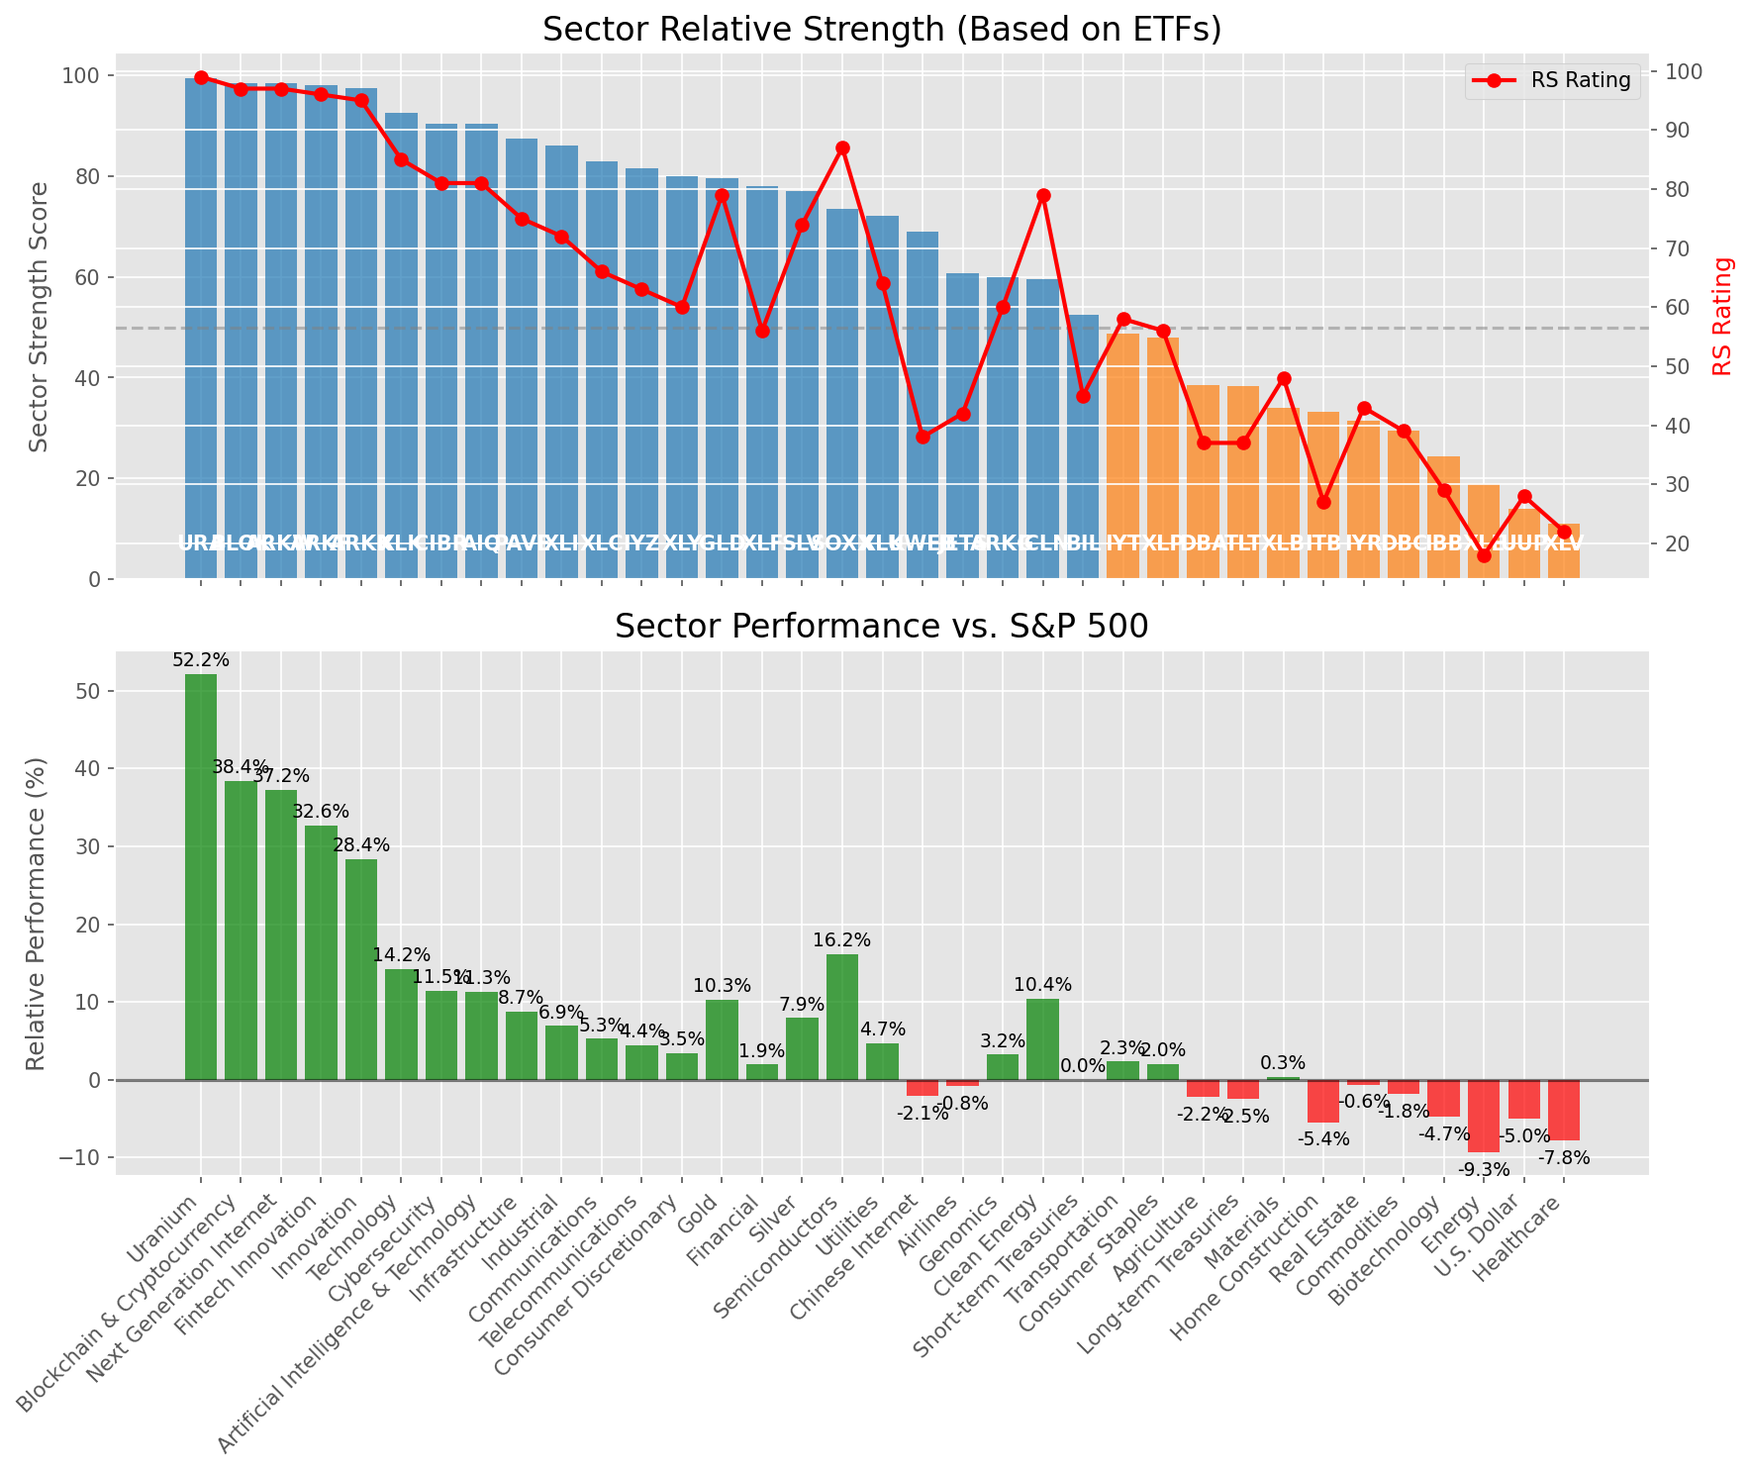
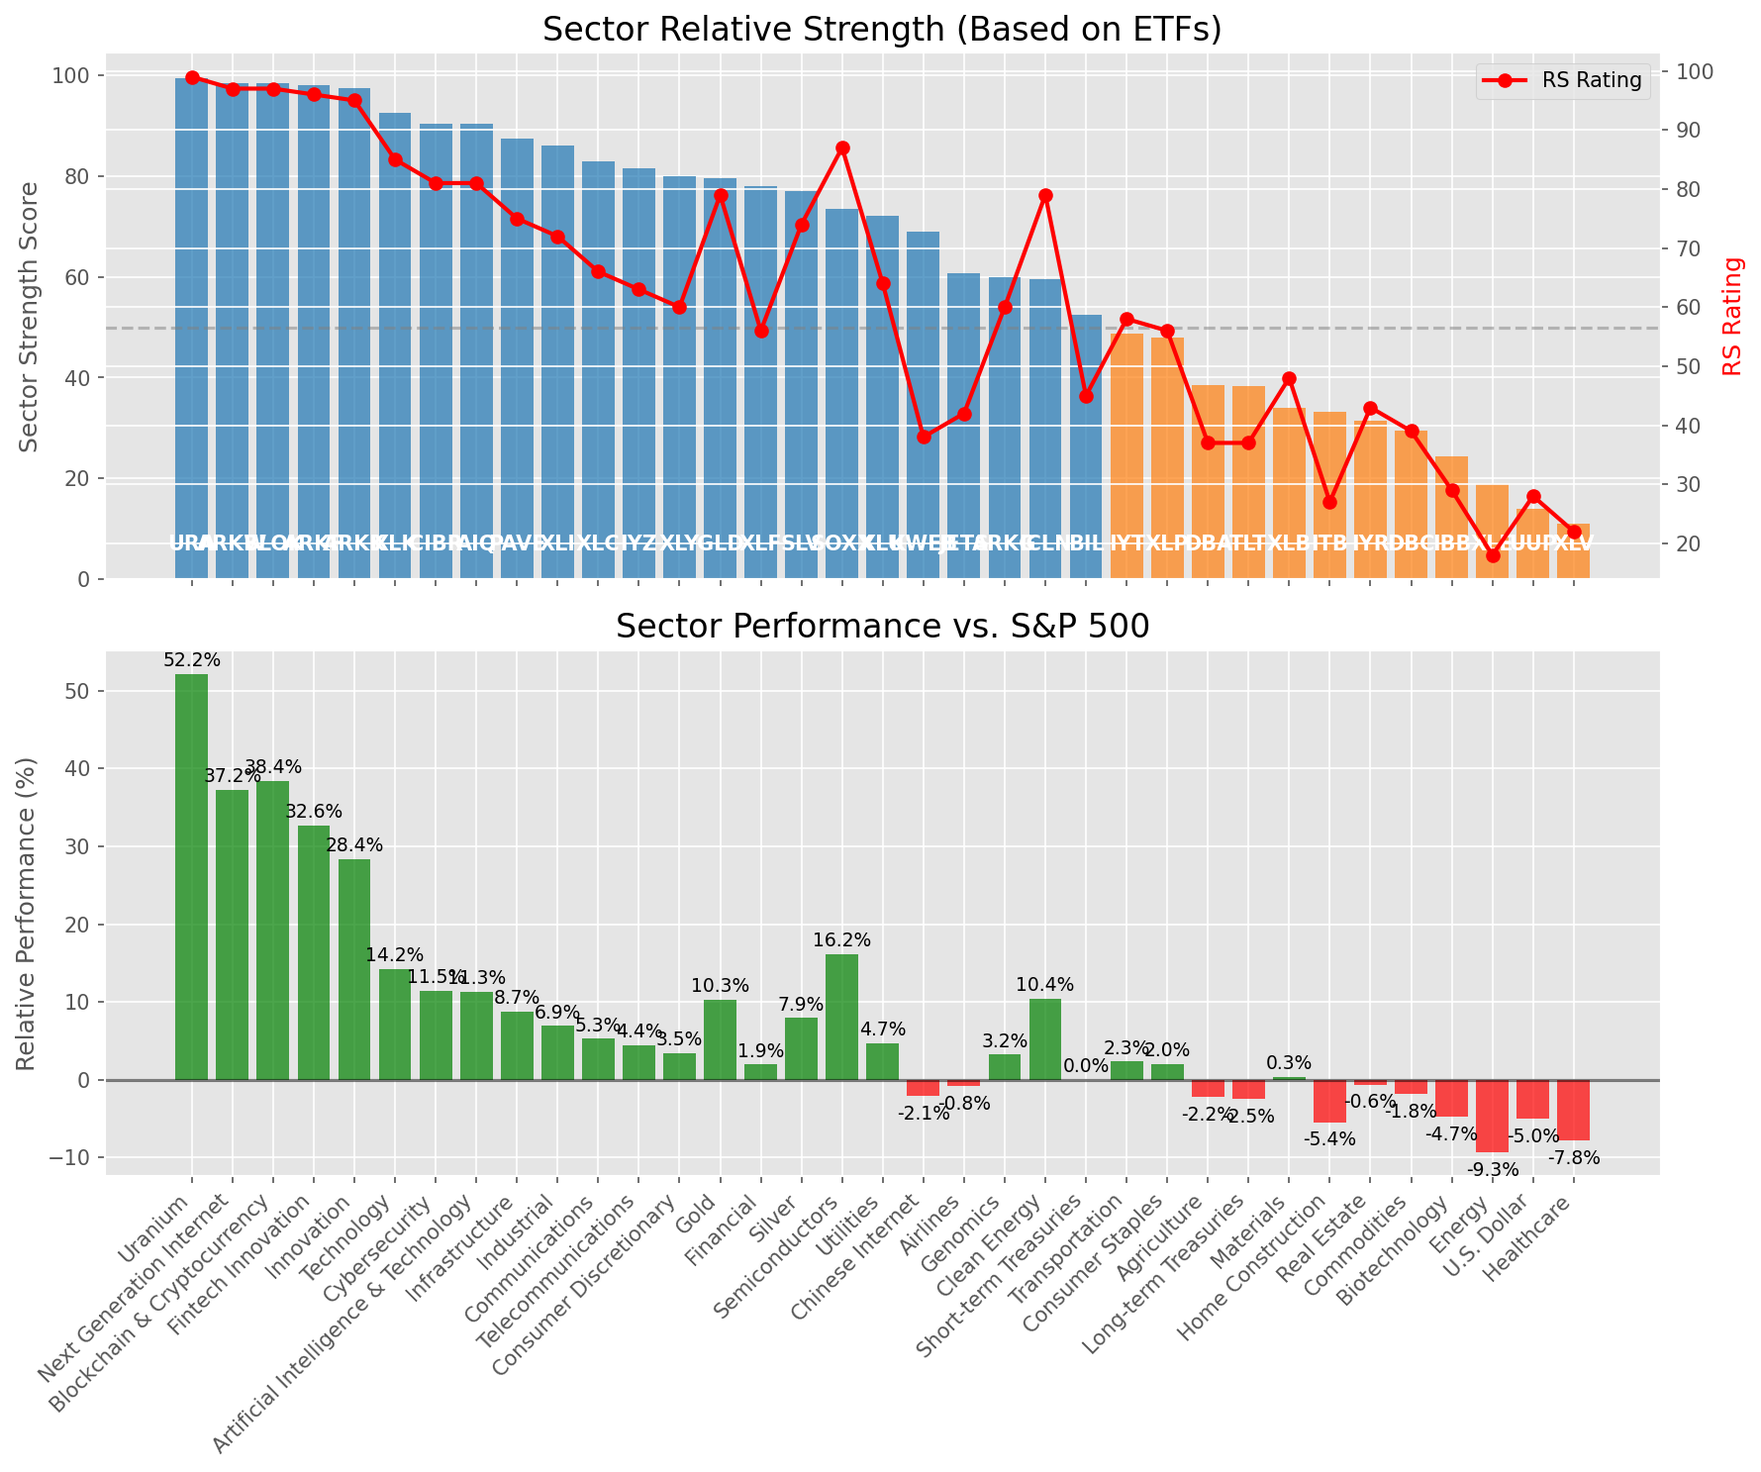
Add market report for 2025-06-25

diff --git a/oneil_relative_strength_report_2025-06-25.md b/oneil_relative_strength_report_2025-06-25.md
@@ -50,8 +50,8 @@ Based on William O'Neil's Relative Strength Methodology
 | ETF | Strength | RS Rating | Performance | Above Key MAs | Trend | Sector |
 |-----|----------|-----------|-------------|--------------|-------|--------|
 | [URA](https://www.tradingview.com/chart/?symbol=URA) | 99.5 | 99.0 | 52.15% | 10d ✓, 50d ✓, 200d ✓ | ↗ | Uranium |
-| [BLOK](https://www.tradingview.com/chart/?symbol=BLOK) | 98.5 | 97.0 | 38.40% | 10d ✓, 50d ✓, 200d ✓ | ↗ | Blockchain & Cryptocurrency |
 | [ARKW](https://www.tradingview.com/chart/?symbol=ARKW) | 98.5 | 97.0 | 37.22% | 10d ✓, 50d ✓, 200d ✓ | ↗ | Next Generation Internet |
+| [BLOK](https://www.tradingview.com/chart/?symbol=BLOK) | 98.5 | 97.0 | 38.40% | 10d ✓, 50d ✓, 200d ✓ | ↗ | Blockchain & Cryptocurrency |
 | [ARKF](https://www.tradingview.com/chart/?symbol=ARKF) | 98.0 | 96.0 | 32.64% | 10d ✓, 50d ✓, 200d ✓ | ↗ | Fintech Innovation |
 | [ARKK](https://www.tradingview.com/chart/?symbol=ARKK) | 97.5 | 95.0 | 28.37% | 10d ✓, 50d ✓, 200d ✓ | ↗ | Innovation |
 | [XLK](https://www.tradingview.com/chart/?symbol=XLK) | 92.5 | 85.0 | 14.20% | 10d ✓, 50d ✓, 200d ✓ | ↗ | Technology |
@@ -98,7 +98,7 @@ This table shows the relative strength metrics for different market sectors base
 
 ### **Current Sector Leadership**
 
-The current market leadership is coming from the following sectors: **Uranium, Blockchain & Cryptocurrency, Next Generation Internet**.
+The current market leadership is coming from the following sectors: **Uranium, Next Generation Internet, Blockchain & Cryptocurrency**.
 
 The **Uranium** sector (represented by **URA**) is showing particularly strong relative strength with an RS rating of 99.0 and performance of 52.15% vs. the S&P 500. This sector is trading above its 10-day, 50-day, 200-day moving average(s). Investors should consider focusing on high RS stocks within these leading sectors for potential outperformance.
 
@@ -110,69 +110,69 @@ The following 91 stocks show exceptional relative strength:
 
 | RS Rating | Buy Score | Current Price | Chart | Name | Ticker |
 |-----------|-----------|---------------|-------|------|--------|
-| 100 | 100 | $154.79 | [Chart](https://www.tradingview.com/chart/?symbol=SEZL) | Sezzle Inc. Common Stock | SEZL |
 | 100 | 100 | $85.79 | [Chart](https://www.tradingview.com/chart/?symbol=SLNO) | Soleno Therapeutics, Inc. Common Stock | SLNO |
-| 100 | 100 | $226.11 | [Chart](https://www.tradingview.com/chart/?symbol=DAVE) | Dave Inc. Class A Common Stock | DAVE |
 | 100 | 100 | $181.18 | [Chart](https://www.tradingview.com/chart/?symbol=LEU) | Centrus Energy Corp. | LEU |
 | 100 | 100 | $82.75 | [Chart](https://www.tradingview.com/chart/?symbol=HOOD) | Robinhood Markets, Inc. Class A Common Stock | HOOD |
+| 100 | 100 | $154.79 | [Chart](https://www.tradingview.com/chart/?symbol=SEZL) | Sezzle Inc. Common Stock | SEZL |
+| 100 | 100 | $226.11 | [Chart](https://www.tradingview.com/chart/?symbol=DAVE) | Dave Inc. Class A Common Stock | DAVE |
 | 100 | 100 | $102.84 | [Chart](https://www.tradingview.com/chart/?symbol=RBLX) | Roblox Corporation | RBLX |
-| 99 | 100 | $149.04 | [Chart](https://www.tradingview.com/chart/?symbol=CLS) | Celestica, Inc. | CLS |
-| 99 | 100 | $190.12 | [Chart](https://www.tradingview.com/chart/?symbol=NET) | Cloudflare, Inc. Class A common stock, par value $0.001 per share | NET |
+| 99 | 100 | $153.32 | [Chart](https://www.tradingview.com/chart/?symbol=NRG) | NRG Energy, Inc. | NRG |
 | 99 | 100 | $142.90 | [Chart](https://www.tradingview.com/chart/?symbol=PLTR) | Palantir Technologies Inc. Class A Common Stock | PLTR |
 | 99 | 100 | $46.17 | [Chart](https://www.tradingview.com/chart/?symbol=GRAL) | GRAIL, Inc. Common Stock | GRAL |
-| 99 | 100 | $43.79 | [Chart](https://www.tradingview.com/chart/?symbol=FARO) | Faro Technologies Inc | FARO |
-| 99 | 100 | $153.32 | [Chart](https://www.tradingview.com/chart/?symbol=NRG) | NRG Energy, Inc. | NRG |
+| 99 | 100 | $149.04 | [Chart](https://www.tradingview.com/chart/?symbol=CLS) | Celestica, Inc. | CLS |
+| 99 | 100 | $190.12 | [Chart](https://www.tradingview.com/chart/?symbol=NET) | Cloudflare, Inc. Class A common stock, par value $0.001 per share | NET |
 | 99 | 100 | $502.67 | [Chart](https://www.tradingview.com/chart/?symbol=GEV) | GE Vernova Inc. | GEV |
+| 99 | 100 | $43.79 | [Chart](https://www.tradingview.com/chart/?symbol=FARO) | Faro Technologies Inc | FARO |
+| 98 | 100 | $214.66 | [Chart](https://www.tradingview.com/chart/?symbol=JBL) | Jabil Inc. | JBL |
+| 98 | 100 | $315.76 | [Chart](https://www.tradingview.com/chart/?symbol=CVNA) | Carvana Co. | CVNA |
 | 98 | 100 | $151.47 | [Chart](https://www.tradingview.com/chart/?symbol=IRTC) | iRhythm Technologies, Inc | IRTC |
 | 98 | 100 | $28.33 | [Chart](https://www.tradingview.com/chart/?symbol=CRK) | Comstock Resources, Inc. | CRK |
-| 98 | 100 | $315.76 | [Chart](https://www.tradingview.com/chart/?symbol=CVNA) | Carvana Co. | CVNA |
 | 98 | 100 | $150.05 | [Chart](https://www.tradingview.com/chart/?symbol=COOP) | Mr. Cooper Group Inc. Common Stock | COOP |
-| 98 | 100 | $214.66 | [Chart](https://www.tradingview.com/chart/?symbol=JBL) | Jabil Inc. | JBL |
 | 97 | 100 | $52.56 | [Chart](https://www.tradingview.com/chart/?symbol=BBW) | Build-A-Bear Workshop, Inc. | BBW |
-| 97 | 100 | $264.00 | [Chart](https://www.tradingview.com/chart/?symbol=CRS) | Carpenter Technology Corp | CRS |
 | 97 | 100 | $21.50 | [Chart](https://www.tradingview.com/chart/?symbol=MIR) | Mirion Technologies, Inc. | MIR |
 | 97 | 100 | $785.07 | [Chart](https://www.tradingview.com/chart/?symbol=AXON) | Axon Enterprise, Inc. Common Stock | AXON |
+| 97 | 100 | $264.00 | [Chart](https://www.tradingview.com/chart/?symbol=CRS) | Carpenter Technology Corp | CRS |
 | 96 | 100 | $35.40 | [Chart](https://www.tradingview.com/chart/?symbol=MP) | MP Materials Corp. | MP |
 | 96 | 100 | $49.09 | [Chart](https://www.tradingview.com/chart/?symbol=ARKF) | ARK Fintech Innovation ETF | ARKF |
 | 96 | 100 | $288.00 | [Chart](https://www.tradingview.com/chart/?symbol=TLN) | Talen Energy Corporation Common Stock | TLN |
-| 95 | 100 | $1275.25 | [Chart](https://www.tradingview.com/chart/?symbol=NFLX) | NetFlix Inc | NFLX |
 | 95 | 100 | $176.08 | [Chart](https://www.tradingview.com/chart/?symbol=HWM) | Howmet Aerospace Inc. | HWM |
 | 95 | 100 | $494.09 | [Chart](https://www.tradingview.com/chart/?symbol=CRWD) | CrowdStrike Holdings, Inc. Class A Common Stock | CRWD |
 | 95 | 100 | $42.33 | [Chart](https://www.tradingview.com/chart/?symbol=KTOS) | Kratos Defense & Security Solutions, Inc. | KTOS |
+| 95 | 100 | $1275.25 | [Chart](https://www.tradingview.com/chart/?symbol=NFLX) | NetFlix Inc | NFLX |
 | 95 | 100 | $37.31 | [Chart](https://www.tradingview.com/chart/?symbol=AS) | Amer Sports, Inc. | AS |
-| 94 | 100 | $284.34 | [Chart](https://www.tradingview.com/chart/?symbol=RCL) | Royal Caribbean Group | RCL |
+| 94 | 100 | $73.99 | [Chart](https://www.tradingview.com/chart/?symbol=CORT) | Corcept Therapeutics Inc. | CORT |
 | 94 | 100 | $243.41 | [Chart](https://www.tradingview.com/chart/?symbol=WWD) | Woodward, Inc. | WWD |
 | 94 | 100 | $42.63 | [Chart](https://www.tradingview.com/chart/?symbol=CHWY) | Chewy, Inc. | CHWY |
-| 94 | 100 | $73.99 | [Chart](https://www.tradingview.com/chart/?symbol=CORT) | Corcept Therapeutics Inc. | CORT |
-| 93 | 100 | $18.82 | [Chart](https://www.tradingview.com/chart/?symbol=AVPT) | AvePoint, Inc. Class A Common Stock | AVPT |
+| 94 | 100 | $284.34 | [Chart](https://www.tradingview.com/chart/?symbol=RCL) | Royal Caribbean Group | RCL |
 | 93 | 100 | $131.47 | [Chart](https://www.tradingview.com/chart/?symbol=OLLI) | Ollie's Bargain Outlet Holdings, Inc. Common Stock | OLLI |
 | 93 | 100 | $163.75 | [Chart](https://www.tradingview.com/chart/?symbol=CAH) | Cardinal Health, Inc. | CAH |
-| 92 | 100 | $26.82 | [Chart](https://www.tradingview.com/chart/?symbol=UVE) | UNIVERSAL INSURANCE HLDG, INC. | UVE |
+| 93 | 100 | $18.82 | [Chart](https://www.tradingview.com/chart/?symbol=AVPT) | AvePoint, Inc. Class A Common Stock | AVPT |
 | 92 | 100 | $61.27 | [Chart](https://www.tradingview.com/chart/?symbol=IBIT) | iShares Bitcoin Trust ETF | IBIT |
-| 92 | 100 | $90.56 | [Chart](https://www.tradingview.com/chart/?symbol=RBRK) | Rubrik, Inc. | RBRK |
+| 92 | 100 | $26.82 | [Chart](https://www.tradingview.com/chart/?symbol=UVE) | UNIVERSAL INSURANCE HLDG, INC. | UVE |
 | 92 | 100 | $30.50 | [Chart](https://www.tradingview.com/chart/?symbol=HODL) | VanEck Bitcoin ETF | HODL |
+| 92 | 100 | $90.56 | [Chart](https://www.tradingview.com/chart/?symbol=RBRK) | Rubrik, Inc. | RBRK |
 | 92 | 100 | $103.35 | [Chart](https://www.tradingview.com/chart/?symbol=JCI) | Johnson Controls International plc | JCI |
-| 92 | 100 | $58.66 | [Chart](https://www.tradingview.com/chart/?symbol=SHLD) | Global X Defense Tech ETF | SHLD |
 | 92 | 100 | $39.01 | [Chart](https://www.tradingview.com/chart/?symbol=LTM) | LATAM Airlines Group S.A. American Depositary Shares (each representing two thousand (2,000) shares of Common Stock) | LTM |
-| 91 | 100 | $95.25 | [Chart](https://www.tradingview.com/chart/?symbol=SANM) | Sanmina  Corp | SANM |
-| 91 | 100 | $22.61 | [Chart](https://www.tradingview.com/chart/?symbol=BTSG) | BrightSpring Health Services, Inc. Common Stock | BTSG |
+| 92 | 100 | $58.66 | [Chart](https://www.tradingview.com/chart/?symbol=SHLD) | Global X Defense Tech ETF | SHLD |
 | 91 | 100 | $55.04 | [Chart](https://www.tradingview.com/chart/?symbol=AKRO) | Akero Therapeutics, Inc. Common Stock | AKRO |
+| 91 | 100 | $22.61 | [Chart](https://www.tradingview.com/chart/?symbol=BTSG) | BrightSpring Health Services, Inc. Common Stock | BTSG |
 | 91 | 100 | $44.38 | [Chart](https://www.tradingview.com/chart/?symbol=BBIO) | BridgeBio Pharma, Inc. Common Stock | BBIO |
-| 90 | 100 | $63.80 | [Chart](https://www.tradingview.com/chart/?symbol=CHEF) | The Chef's Warehouse Inc | CHEF |
-| 90 | 100 | $736.30 | [Chart](https://www.tradingview.com/chart/?symbol=SPOT) | Spotify Technology S.A. | SPOT |
+| 91 | 100 | $95.25 | [Chart](https://www.tradingview.com/chart/?symbol=SANM) | Sanmina  Corp | SANM |
 | 90 | 100 | $120.67 | [Chart](https://www.tradingview.com/chart/?symbol=EHC) | Encompass Health Corporation Common Stock | EHC |
+| 90 | 100 | $736.30 | [Chart](https://www.tradingview.com/chart/?symbol=SPOT) | Spotify Technology S.A. | SPOT |
+| 90 | 100 | $63.80 | [Chart](https://www.tradingview.com/chart/?symbol=CHEF) | The Chef's Warehouse Inc | CHEF |
 | 90 | 100 | $36.16 | [Chart](https://www.tradingview.com/chart/?symbol=AHR) | American Healthcare REIT, Inc. | AHR |
-| 89 | 100 | $249.90 | [Chart](https://www.tradingview.com/chart/?symbol=GE) | GE Aerospace | GE |
-| 89 | 100 | $26.85 | [Chart](https://www.tradingview.com/chart/?symbol=SRAD) | Sportradar Group AG Class A Ordinary Shares | SRAD |
-| 89 | 100 | $41.27 | [Chart](https://www.tradingview.com/chart/?symbol=KD) | Kyndryl Holdings, Inc. | KD |
 | 89 | 100 | $59.78 | [Chart](https://www.tradingview.com/chart/?symbol=CAKE) | Cheesecake Factory (The) | CAKE |
+| 89 | 100 | $41.27 | [Chart](https://www.tradingview.com/chart/?symbol=KD) | Kyndryl Holdings, Inc. | KD |
+| 89 | 100 | $26.85 | [Chart](https://www.tradingview.com/chart/?symbol=SRAD) | Sportradar Group AG Class A Ordinary Shares | SRAD |
+| 89 | 100 | $249.90 | [Chart](https://www.tradingview.com/chart/?symbol=GE) | GE Aerospace | GE |
 | 87 | 100 | $29.28 | [Chart](https://www.tradingview.com/chart/?symbol=DB) | Deutsche Bank Aktiengesellschaft | DB |
-| 87 | 100 | $232.68 | [Chart](https://www.tradingview.com/chart/?symbol=DASH) | DoorDash, Inc. Class A Common Stock | DASH |
 | 87 | 100 | $291.06 | [Chart](https://www.tradingview.com/chart/?symbol=IBM) | International Business Machines Corporation | IBM |
+| 87 | 100 | $232.68 | [Chart](https://www.tradingview.com/chart/?symbol=DASH) | DoorDash, Inc. Class A Common Stock | DASH |
 | 90 | 99 | $136.80 | [Chart](https://www.tradingview.com/chart/?symbol=PPA) | Invesco Aerospace & Defense ETF | PPA |
 | 88 | 99 | $76.19 | [Chart](https://www.tradingview.com/chart/?symbol=USFD) | US Foods Holding Corp. | USFD |
-| 86 | 99 | $282.44 | [Chart](https://www.tradingview.com/chart/?symbol=VRSN) | VeriSign Inc | VRSN |
 | 86 | 99 | $43.53 | [Chart](https://www.tradingview.com/chart/?symbol=EXEL) | Exelixis Inc | EXEL |
+| 86 | 99 | $282.44 | [Chart](https://www.tradingview.com/chart/?symbol=VRSN) | VeriSign Inc | VRSN |
 | 87 | 98 | $52.26 | [Chart](https://www.tradingview.com/chart/?symbol=IBKR) | Interactive Brokers Group, Inc. Class A Common Stock | IBKR |
 | 87 | 98 | $103.80 | [Chart](https://www.tradingview.com/chart/?symbol=FWONK) | Liberty Media Corporation Series C Liberty Formula One Common Stock | FWONK |
 | 86 | 98 | $97.26 | [Chart](https://www.tradingview.com/chart/?symbol=WMT) | Walmart Inc. | WMT |
@@ -189,14 +189,14 @@ The following 91 stocks show exceptional relative strength:
 | 82 | 95 | $72.22 | [Chart](https://www.tradingview.com/chart/?symbol=KR) | The Kroger Co. | KR |
 | 82 | 95 | $22.55 | [Chart](https://www.tradingview.com/chart/?symbol=LAUR) | Laureate Education, Inc. Common Stock | LAUR |
 | 85 | 94 | $208.03 | [Chart](https://www.tradingview.com/chart/?symbol=COF) | Capital One Financial | COF |
-| 84 | 94 | $88.05 | [Chart](https://www.tradingview.com/chart/?symbol=NDAQ) | Nasdaq, Inc. Common Stock | NDAQ |
 | 84 | 94 | $119.82 | [Chart](https://www.tradingview.com/chart/?symbol=TWLO) | Twilio Inc. | TWLO |
-| 82 | 94 | $68.19 | [Chart](https://www.tradingview.com/chart/?symbol=CSCO) | Cisco Systems, Inc. Common Stock (DE) | CSCO |
+| 84 | 94 | $88.05 | [Chart](https://www.tradingview.com/chart/?symbol=NDAQ) | Nasdaq, Inc. Common Stock | NDAQ |
 | 82 | 94 | $306.23 | [Chart](https://www.tradingview.com/chart/?symbol=PODD) | Insulet Corporation | PODD |
+| 82 | 94 | $68.19 | [Chart](https://www.tradingview.com/chart/?symbol=CSCO) | Cisco Systems, Inc. Common Stock (DE) | CSCO |
 | 80 | 94 | $241.64 | [Chart](https://www.tradingview.com/chart/?symbol=TTWO) | Take-Two Interactive Software Inc | TTWO |
-| 83 | 93 | $64.90 | [Chart](https://www.tradingview.com/chart/?symbol=SLF) | Sun Life Financial Inc. | SLF |
 | 83 | 93 | $109.95 | [Chart](https://www.tradingview.com/chart/?symbol=SPMO) | Invesco S&P 500 Momentum ETF | SPMO |
 | 83 | 93 | $57.51 | [Chart](https://www.tradingview.com/chart/?symbol=EPR) | EPR Properties | EPR |
+| 83 | 93 | $64.90 | [Chart](https://www.tradingview.com/chart/?symbol=SLF) | Sun Life Financial Inc. | SLF |
 | 81 | 93 | $399.44 | [Chart](https://www.tradingview.com/chart/?symbol=CYBR) | CyberArk Software Ltd. | CYBR |
 | 81 | 93 | $74.43 | [Chart](https://www.tradingview.com/chart/?symbol=CIBR) | First Trust Exchange-Traded Fund II First Trust NASDAQ Cybersecurity ETF | CIBR |
 | 81 | 91 | $89.80 | [Chart](https://www.tradingview.com/chart/?symbol=SCHW) | The Charles Schwab Corporation | SCHW |
@@ -211,8 +211,8 @@ The following 66 stocks show deteriorating relative strength:
 
 | RS Rating | Sell Score | Current Price | Chart | Name | Ticker |
 |-----------|------------|---------------|-------|------|--------|
-| 1 | 100 | $14.96 | [Chart](https://www.tradingview.com/chart/?symbol=NVDS) | Investment Managers Series Trust II Tradr 1.5X Short NVDA Daily ETF | NVDS |
 | 1 | 100 | $27.97 | [Chart](https://www.tradingview.com/chart/?symbol=TECS) | Direxion Daily Technology Bear 3x Shares | TECS |
+| 1 | 100 | $14.96 | [Chart](https://www.tradingview.com/chart/?symbol=NVDS) | Investment Managers Series Trust II Tradr 1.5X Short NVDA Daily ETF | NVDS |
 | 1 | 100 | $13.18 | [Chart](https://www.tradingview.com/chart/?symbol=RXST) | RxSight, Inc. Common Stock | RXST |
 | 1 | 100 | $27.60 | [Chart](https://www.tradingview.com/chart/?symbol=HELE) | Helen Of Troy Ltd | HELE |
 | 1 | 100 | $14.33 | [Chart](https://www.tradingview.com/chart/?symbol=EWTX) | Edgewise Therapeutics, Inc. Common Stock | EWTX |
@@ -220,17 +220,17 @@ The following 66 stocks show deteriorating relative strength:
 | 2 | 100 | $36.14 | [Chart](https://www.tradingview.com/chart/?symbol=SARK) | Investment Managers Series Trust II Tradr 1X Short Innovation Daily ETF | SARK |
 | 3 | 100 | $44.00 | [Chart](https://www.tradingview.com/chart/?symbol=LINE) | Lineage, Inc. Common Stock | LINE |
 | 4 | 100 | $26.28 | [Chart](https://www.tradingview.com/chart/?symbol=QID) | ProShares UltraShort QQQ | QID |
-| 4 | 100 | $31.29 | [Chart](https://www.tradingview.com/chart/?symbol=ZD) | Ziff Davis, Inc. Common Stock | ZD |
 | 4 | 100 | $10.14 | [Chart](https://www.tradingview.com/chart/?symbol=IMXI) | International Money Express, Inc. | IMXI |
 | 4 | 100 | $21.54 | [Chart](https://www.tradingview.com/chart/?symbol=AMRK) | A-Mark Precious Metals, Inc. | AMRK |
+| 4 | 100 | $31.29 | [Chart](https://www.tradingview.com/chart/?symbol=ZD) | Ziff Davis, Inc. Common Stock | ZD |
 | 5 | 100 | $17.74 | [Chart](https://www.tradingview.com/chart/?symbol=DJT) | Trump Media & Technology Group Corp. Common Stock | DJT |
 | 5 | 100 | $14.21 | [Chart](https://www.tradingview.com/chart/?symbol=INMD) | InMode Ltd. Ordinary Shares | INMD |
-| 6 | 100 | $20.24 | [Chart](https://www.tradingview.com/chart/?symbol=SPT) | Sprout Social, Inc Class A Common Stock | SPT |
 | 6 | 100 | $69.02 | [Chart](https://www.tradingview.com/chart/?symbol=WD) | Walker & Dunlop, Inc. | WD |
 | 6 | 100 | $19.63 | [Chart](https://www.tradingview.com/chart/?symbol=BITI) | ProShares Short Bitcoin ETF | BITI |
-| 7 | 100 | $80.55 | [Chart](https://www.tradingview.com/chart/?symbol=LNTH) | Lantheus Holdings, Inc | LNTH |
-| 7 | 100 | $17.50 | [Chart](https://www.tradingview.com/chart/?symbol=AMTB) | Amerant Bancorp Inc. | AMTB |
+| 6 | 100 | $20.24 | [Chart](https://www.tradingview.com/chart/?symbol=SPT) | Sprout Social, Inc Class A Common Stock | SPT |
 | 7 | 100 | $30.25 | [Chart](https://www.tradingview.com/chart/?symbol=FUN) | Six Flags Entertainment Corporation | FUN |
+| 7 | 100 | $17.50 | [Chart](https://www.tradingview.com/chart/?symbol=AMTB) | Amerant Bancorp Inc. | AMTB |
+| 7 | 100 | $80.55 | [Chart](https://www.tradingview.com/chart/?symbol=LNTH) | Lantheus Holdings, Inc | LNTH |
 | 7 | 100 | $25.04 | [Chart](https://www.tradingview.com/chart/?symbol=ASTH) | Astrana Health Inc. Common Stock | ASTH |
 | 8 | 100 | $10.03 | [Chart](https://www.tradingview.com/chart/?symbol=LBTYK) | Liberty Global Ltd. Class C Common Shares | LBTYK |
 | 12 | 100 | $10.45 | [Chart](https://www.tradingview.com/chart/?symbol=ABR) | Arbor Realty Trust, Inc. | ABR |
